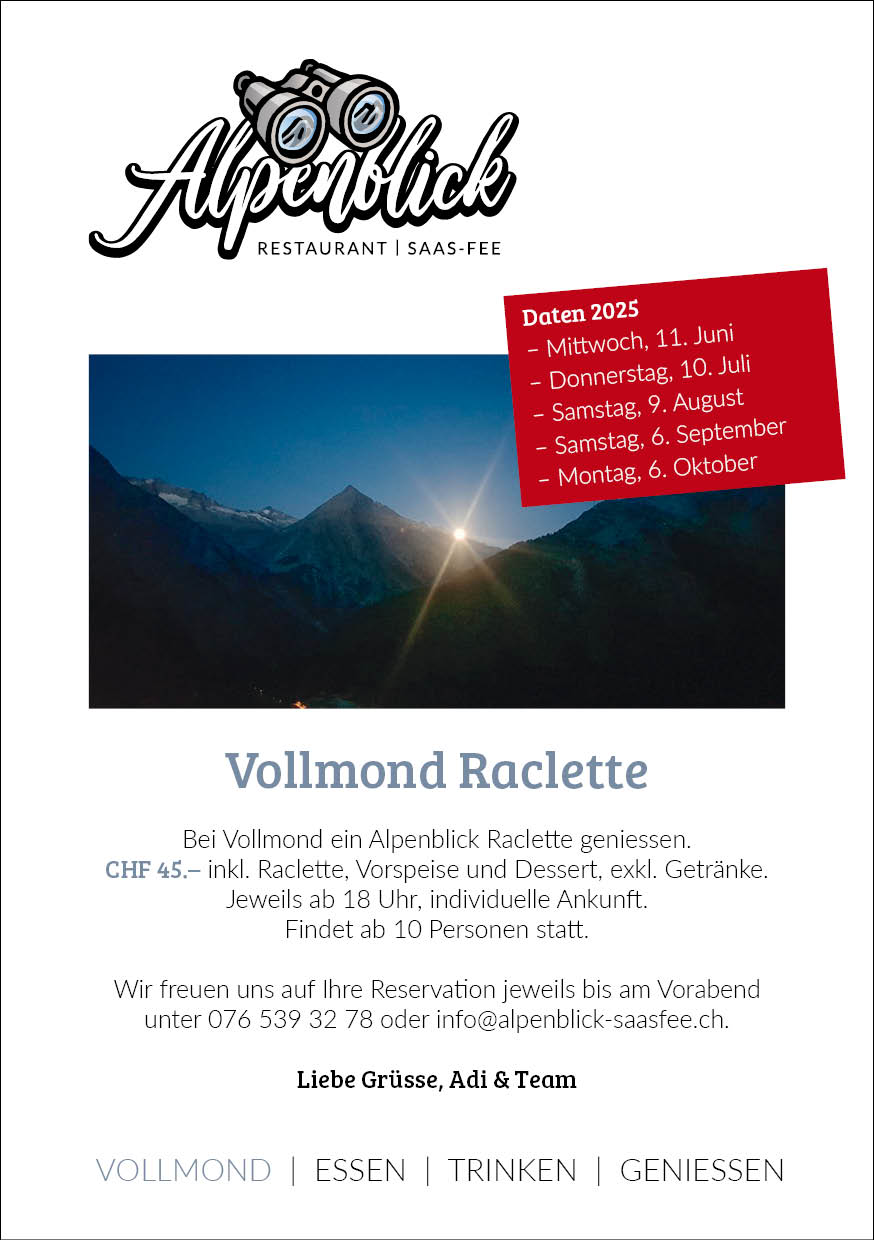
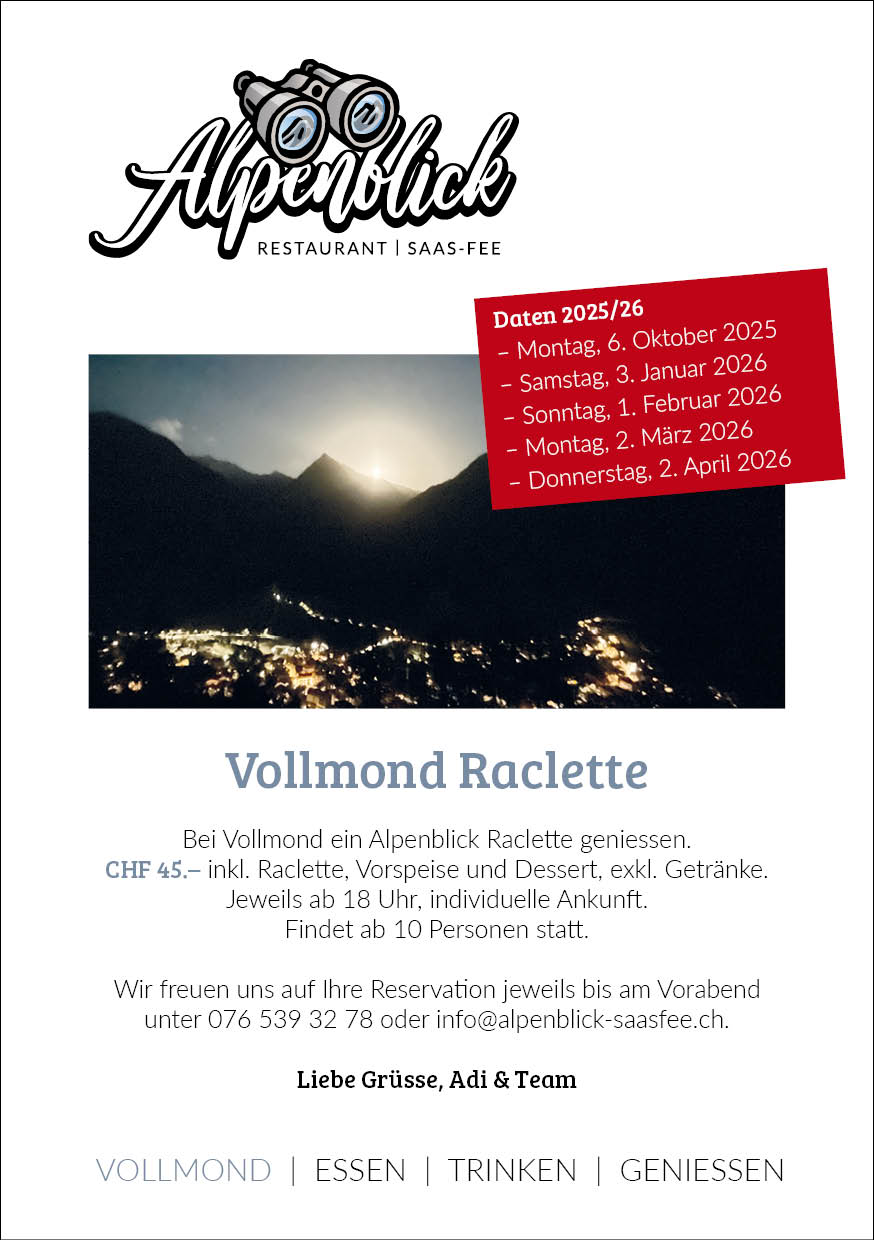
update homepage

Changed region(s): [[0.0927, 0.2145, 0.8959, 0.5823], [0.1236, 0.4903, 0.1854, 0.5823], [0.5561, 0.5516, 0.587, 0.5823]]

diff --git a/content/_index.md b/content/_index.md
@@ -33,6 +33,8 @@ An diesem Tag bleibt der Alpenblick geschlossen. Dafür sind wir an der <a href=
 
 
 <!-- 
+Saisonschluss esch am Sonntig 26.Oktober Wintersaisonstart Freitag 12.Dezember.
+
 **Saisonende**<br>
 Wir geniessen mit euch noch bis und mit **Sonntag, XYZ. April 202X** die Wintersaison. 
 
@@ -115,28 +117,21 @@ Unser kleines, aber feines <a href="images/Alpenblick_Flyer_Uebernachten_2022.jp
 * Samstag, 6. September 2025: <a href="images/Alpenblick_Flyer_Vollmond_Raclette_Plausch.jpg" target="_blank"> Vollmond Raclette</a>
 * Sonntag, 7. September 2025: <a href="https://www.saas-fee.ch/de/events/top-events-im-sommer/nostalgische-genussmeile" target="_blank"> Nostalgische Genussmeile Saas-Fee</a>
 * Montag, 6. Oktober 2025: <a href="images/Alpenblick_Flyer_Vollmond_Raclette_Plausch.jpg" target="_blank"> Vollmond Raclette</a>
+* Samstag, 3. Januar 2026: <a href="images/Alpenblick_Flyer_Vollmond_Raclette_Plausch.jpg" target="_blank"> Vollmond Raclette</a>
+* Sonntag, 1. Februar 2026: <a href="images/Alpenblick_Flyer_Vollmond_Raclette_Plausch.jpg" target="_blank"> Vollmond Raclette</a>
+* Montag, 2. März 2026: <a href="images/Alpenblick_Flyer_Vollmond_Raclette_Plausch.jpg" target="_blank"> Vollmond Raclette</a>
+* Donnerstag, 2. April 2026: <a href="images/Alpenblick_Flyer_Vollmond_Raclette_Plausch.jpg" target="_blank"> Vollmond Raclette</a>
 
-<!-- * Montag, 19. August 2024: <a href="images/Alpenblick_Flyer_Vollmond_Raclette_Plausch.jpg" target="_blank"> Vollmond Raclette</a> -->
-<!-- * 04. – 25. September 2022: <a href="https://www.saas-fee.ch/de/events/top-events-im-sommer/saaser-gaumengaudi" target="_blank"> Saaser Gaumengaudi</a> (-> <a href="images/Alpenblick_Flyer_Saaser_Gaumengaudi_2022.jpg" target="_blank">Unser Menü</a>) -->
-<!-- * Mittwoch, 18. September 2024: <a href="images/Alpenblick_Flyer_Vollmond_Raclette_Plausch.jpg" target="_blank"> Vollmond Raclette</a> -->
-<!-- * Donnerstag, 17. Oktober 2024: <a href="images/Alpenblick_Flyer_Vollmond_Raclette_Plausch.jpg" target="_blank"> Vollmond Raclette</a> -->
-<!-- * Montag, 25. Dezember 2023: <a href="images/Alpenblick_Flyer_Christmas_Fondue.jpg" target="_blank"> Christmas Fondue</a> -->
-<!-- * Sonntag, 15. Dezember 2025: <a href="images/Alpenblick_Flyer_Vollmond_Raclette_Plausch.jpg" target="_blank"> Vollmond Raclette</a> -->
-<!-- * Samstag, 24. Dezember 2022: <a href="images/Alpenblick_Flyer_Weihnachtsmenu.jpg" target="_blank"> Weihnachtsmenu</a> -->
-<!-- * Montag, 13. Januar 2025: <a href="images/Alpenblick_Flyer_Vollmond_Raclette_Plausch.jpg" target="_blank"> Vollmond Raclette</a> -->
-<!-- * AUSGEBUCHT – Mittwoch, 12. Februar 2025: <a href="images/Alpenblick_Flyer_Vollmond_Raclette_Plausch.jpg" target="_blank"> Vollmond Raclette</a> -->
 <!-- * **ZUSÄTZLICH: AUSGEBUCHT – Donnerstag, 13. März 2025: <a href="images/Alpenblick_Flyer_Vollmond_Raclette_Plausch.jpg" target="_blank"> Vollmond Raclette</a>** -->
-<!-- * AUSGEBUCHT – Freitag, 14. März 2025: <a href="images/Alpenblick_Flyer_Vollmond_Raclette_Plausch.jpg" target="_blank"> Vollmond Raclette</a> -->
-<!-- * **ZUSÄTZLICH: AUSGEBUCHT – Samstag, 12. April 2025: <a href="images/Alpenblick_Flyer_Vollmond_Raclette_Plausch.jpg" target="_blank"> Vollmond Raclette</a>** -->
 <!-- * AUSGEBUCHT – Sonntag, 13. April 2025: <a href="images/Alpenblick_Flyer_Vollmond_Raclette_Plausch.jpg" target="_blank"> Vollmond Raclette</a> -->
+<!-- * 04. – 25. September 2022: <a href="https://www.saas-fee.ch/de/events/top-events-im-sommer/saaser-gaumengaudi" target="_blank"> Saaser Gaumengaudi</a> (-> <a href="images/Alpenblick_Flyer_Saaser_Gaumengaudi_2022.jpg" target="_blank">Unser Menü</a>) -->
+<!-- * Montag, 25. Dezember 2023: <a href="images/Alpenblick_Flyer_Christmas_Fondue.jpg" target="_blank"> Christmas Fondue</a> -->
+<!-- * Samstag, 24. Dezember 2022: <a href="images/Alpenblick_Flyer_Weihnachtsmenu.jpg" target="_blank"> Weihnachtsmenu</a> -->
 <!-- * Ostersonntag, 20. April 2025: <a href="images/Alpenblick_Flyer_Ostern.jpg" target="_blank"> Alpenblick Ostereiersuche</a> -->
-<!-- * Mittwoch, 11. Juni 2025: <a href="images/Alpenblick_Flyer_Vollmond_Raclette_Plausch.jpg" target="_blank"> Vollmond Raclette</a> -->
-<!-- * Donnerstag, 10. Juli 2025: <a href="images/Alpenblick_Flyer_Vollmond_Raclette_Plausch.jpg" target="_blank"> Vollmond Raclette</a> -->
 <!-- * Samstag, 19. Juli 2025: <a href="images/Alpenblick_Flyer_Hannig_Tavolata.jpg" target="_blank"> Hannig Tavolata</a> (mit dem Bergrestaurant Hannig) -->
 <!-- * Sonntag, 27. Juli 2025: Ziegenfest Saas--Fee -->
 <!-- * Sonntag, 27. Juli 2025: <a href="images/Alpenblick_Flyer_Ziegenfest.jpg" target="_blank"> Ziegenfest Saas--Fee</a> -->
 <!-- * Freitag, 1. August 2025: <a href="images/Alpenblick_Flyer_1_August.jpg" target="_blank"> 1.-August-BBQ</a> -->
-<!-- * Samstag, 9. August 2025: <a href="images/Alpenblick_Flyer_Vollmond_Raclette_Plausch.jpg" target="_blank"> Vollmond Raclette</a> -->
 <!-- * Sonntag, 10. Juli 2022: <a href="https://www.saas-fee.ch/de/events/top-events-im-sommer/saaser-gourmet-trail" target="_blank"> Saaser Gourmet-Trail</a> -->
 <!-- * Sonntag, 11. August 2024:  <a href="images/Alpenblick_Flyer_Jubiläums-Brunch.jpg" target="_blank"> Alpenblick Jubiläums-Brunch</a> -->
 
